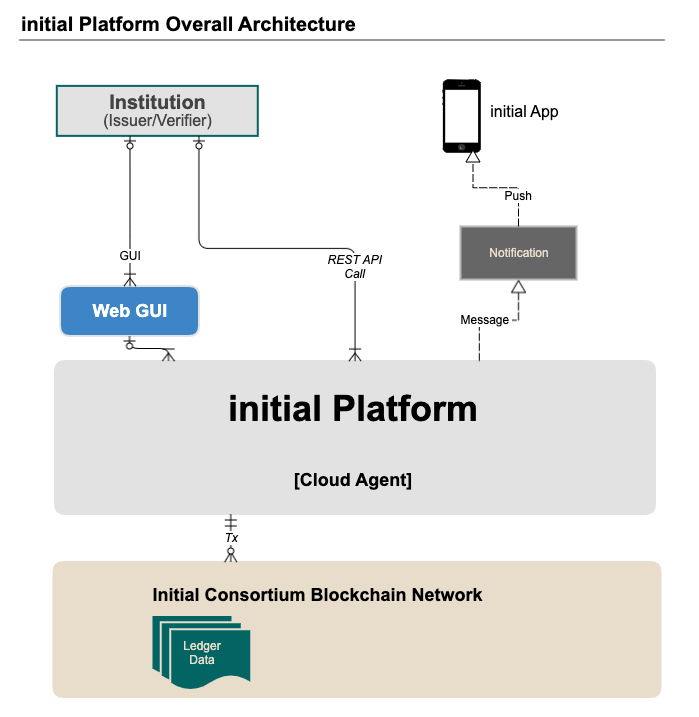
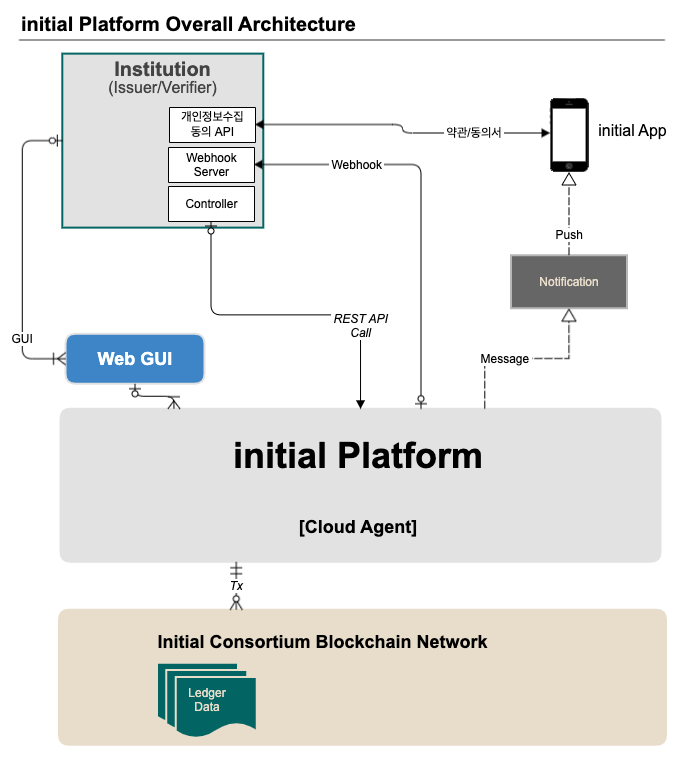
v1.0.7 개인정보 수집 동의 개발 Guide 추가

diff --git a/docs/web_console_guide.md b/docs/web_console_guide.md
@@ -1,0 +1,146 @@
+<p>initial Platform DID Agent API 이용 개발 안내</p>
+
+![platform arch](img/initial_platform_architecture.png)
+
+## 기관 참여자 구현/개발이 필요 항목 
+위 그림에서 기관사용자 영역의 3개 항목에 대해서 구현 필요
+
+1. 참여사 개인정보 수집 및 이용 동의서 조회 API 서버 
+2. DID Agent API 요청 Controller 서버
+3. Event 수신 Webhook 서버
+
+### 1-1. 참여사 개인정보 수집 및 이용 동의서 조회 API 구현 안내 
+- 모바일 initial App에서 참여사에게 본인확인증명을 제출하기 전 개인정보 수집 및 이용 동의를 받기 위해, 참여사로부터 동의서를 조회하는 인터페이스이다. 
+
+##### Request
+```
+POST http://{{참여사서버DOMAIN}}/terms/personconsent   
+```
+
+Parameter name | value | Description | 필수 
+--- | --- | --- | ---
+ - |  |  |
+
+
+##### Response
+Field name | value | Description
+--- | --- | --- 
+result | Object | 
+flag | String | 결과 코드
+message | String | 결과 메시지
+agreement | String | 서비스에 대한 동의 설명
+collectiontype | String | 수집 항목
+usagepurpose | String | 수집 이용 목적
+consentperiod | String | 보유/이용기간 및 파기 
+
+##### Example
+example request
+```
+Header
+Accept:applicastion/json
+METHOD:POST
+URL
+/terms/personconsent
+Body
+```
+example response
+```
+Header 
+'content-type': application/json
+'status':200
+Body 
+{
+  "result": {
+    "flag": "0000",
+    "message": "결과 메시지",
+"agreement": "Initial 서비스(이하 \u201c서비스\u201d라 한다)와 관련하여, 본인은 동의내용을 숙지하였으며, 이에 따라 본인의 개인정보를 (주)XXXX가 수집 및 이용하는 것에 대해 동의합니다.\n\n본 동의는 서비스의 본질적 기능 제공을 위한 개인정보 수집/이용에 대한 동의로서, 동의를 하는 경우에만 서비스 이용이 가능합니다.\n\n법령에 따른 개인정보의 수집/이용, 계약의 이행/편익제공을 위한 개인정보 취급위탁 및 개인정보 취급과 관련된 일반 사항은 서비스의 개인정보 처리방침에 따릅니다.",
+    "collectiontype": "이름,생년월일",
+    "usagepurpose": "서비스 이용에 따른 본인확인",
+    "consentperiod": "1년"
+  }
+}
+```
+
+### 1-2. 참여사 개인정보 수집 및 이용 동의서 동의 수신 API 개발 안내 
+- initial App에서 참여사로 개인정보 수집 및 이용 동의서에 대한 사용자 동의 결과를 전달 하는 인터페이스이다.
+- DID Agent 이용시 encryption 및 전자서명에 대해서 지원하지 않으므로 해당값은 무시하면 된다. 
+
+##### Request
+```
+POST http://{{참여사서버DOMAIN}}/terms/personconsent/decision
+```
+
+##### Body Parameter
+Parameter name | value | Description | 필수 
+--- | --- | --- | ---
+pairwise_did | String | 기관과 연결에 사용한 DID | 사용 안함 
+enc_data | string | 암호화 해서 동의 결과 전송.(intial JAVA SDK를 사용하는 경우 복호화 가능. DID Agent를 사용하면 지원 불가) | 사용 안함  
+non_enc_data | string | 암호화 하지 않고 동의 결과 전송.(DID Agent를 사용하는 경우 사용) | 필수 
+
+##### JSON Data
+Parameter name | value | Description | 필수 
+--- | --- | --- | ---
+agree_yn | String | 동의여부 (Y/N) | 필수
+signature | String | pairwise_did+agree_yn를 서명한 결과를 | 사용 안함
+                           
+
+##### Response
+Field name | value | Description
+--- | --- | --- 
+result | Object | 
+flag | String | 결과 코드
+message | String | 결과 메시지
+
+
+
+##### Example
+example request
+```
+Header
+Accept:applicastion/json
+METHOD:POST
+URL
+/terms/personconsent/decision
+Body
+{
+"pairwise_did": "sdfsdfsdf23232fdsfsf",
+"enc_data": "dsiofj239rt9i9bi929if9si92mvj2oj592nj288e8j38nj82j8j8j4n"
+}
+```
+
+example request
+```
+{
+"agree_yn": "Y",
+"signature":"xcvsdfasdfgawdgasdgasdgsdagasdgasdgdsg"
+}
+```
+
+example response
+```
+Header 
+'content-type': application/json
+'status':200
+Body 
+{
+  "result":{
+    "flag":"0000",
+    "message":"성공"
+  }
+}
+```
+
+### 2. DID Agent Controller 개발 안내 
+- 기관사용자는 DID Agent API를 사용하기 위해 controller 서버를 개발해야 한다.
+- initial Platform의 DID Agent는 Event Driven(이벤트 구동형) 방식이기 때문에 기관 사용자는 Webhook 서버를 개발하고 url 등록해아 한다.
+- 자세한 API 내용은 initial DID Agent API Guide 및 reference code 참조 
+
+  
+### 3. Webhook 서버 개발 안내 
+- initial DID Agent는 event driven 방식으로 REST API 요청에 대한 응답을 Webhook 서버로 전달합니다
+- 처리결과를 받기 위한 기관 사용자의 Webhook URL은 기관정보에 필수 등록해야 합니다. e.g)https://domain.com/webhooks
+- Webhook 서버의 API Key는 보안 강화를 위한 선택 사항입니다. https://domain.com/webhooks#org-api-key 와 같이 입력하시면 header의 x-api-key 항목에 값으로 "org-api-key"를 함께 전송합니다.
+- 기관 사용자는 보안강화를 위한 IP기반 방화벽 설정 하세요 (initial platform의 IP대역 xxx.xxx.xxx.xxx/24는 별도로 안래 예정입니다)
+- Webhook 서버 예제는 아래 reference code (DID 발행/검증 Demo)에서 확인할 수 있습니다. 
+
+

diff --git a/docs/open_api_list.md b/docs/open_api_list.md
@@ -1,9 +1,10 @@
-<p>Initial Platform API Documents</p>
+<p>initial Platform DID Agent API Documents</p>
 
-Cloud Agent의 REST API List<br>
-기관사업자의 Legacy 시스템(ERP, HR시스템 등)과 연동하여 증명서를 손쉽게 발생할 수 있다.
+### DID Agent 안내 
+- 기관사용자는 아래의 DID API를 사용하여 Legacy 시스템(ERP, HR시스템 등)과 연동하여 증명서를 손쉽게 발생할 수 있다.
+- initial Platform의 DID Agent는 Event Driven(이벤트 구동형) 방식이기 때문에 기관 사용자는 Webhook 서버를 준비하고 url 등록해아 한다.
 
-### API 지원 List
+### DID Agent API 지원 List
 
 #### Mandatory(필수) APIs
 
@@ -13,9 +14,7 @@ Cloud Agent의 REST API List<br>
   `POST` | **[/issue-credential/send-offer](#)** | 발행자(issuer)가 사용자(holder)에게 VC 보내기
   `POST` | **[/present-proof/send-request](#)** | 검증자(Verifier)가 사용자(holder)에게 VC 검증 요청하기 
 
-
-
-<br><br>
+<br>
 
 #### Optional Service APIs
 
@@ -24,3 +23,15 @@ Cloud Agent의 REST API List<br>
   `GET` | /connections | 모든 연결(connections) list 출력
   `GET` | /connections/{conn_id} | 특정 connection ID 정보 출력
   `POST` | /connections/{conn_id}/send-message| Send a basic message to a connection (지원예정)
+  
+  <br>
+  
+### Webhook 서버 개발 안내 
+- initial DID Agent는 event driven 방식으로 REST API 요청에 대한 응답을 Webhook 서버로 전달합니다
+- 처리결과를 받기 위한 기관 사용자의 Webhook URL은 기관정보에 필수 등록해야 합니다. e.g)https://domain.com/webhooks
+- Webhook 서버의 API Key는 보안 강화를 위한 선택 사항입니다. https://domain.com/webhooks#org-api-key 와 같이 입력하시면 header의 x-api-key 항목에 값으로 "org-api-key"를 함께 전송합니다.
+- 기관 사용자는 보안강화를 위한 IP기반 방화벽 설정 하세요 (initial platform의 IP대역 xxx.xxx.xxx.xxx/24는 별도로 안래 예정입니다)
+- Webhook 서버 예제는 아래 reference code (DID 발행/검증 Demo)에서 확인할 수 있습니다. 
+
+
+![platform arch](img/initial_platform_architecture.png)

diff --git a/docs/services.md b/docs/services.md
@@ -1,7 +1,7 @@
 <h2>Initial Platform Product and Services</h2>
 
 
-## 1. 기관 사용자를 위한 Initial Web Console
+## 1. Initial Web Console
 Web GUI 기반으로 손쉽게 Agent, Wallet 생성하고, VC(Verifiable Credential)을 발행하거나 검증할 수 있는 기능 및 발행/검증 통계 및 사용자 초대 가능
 
   - 디지털 자격 증명을 사용자에게 직접 발행(Issuing) 가능
@@ -9,24 +9,17 @@ Web GUI 기반으로 손쉽게 Agent, Wallet 생성하고, VC(Verifiable Credent
   - 발행/검증 관련 모든 통계 data 제공
   - 사용자 추가 초대 기능 제
 
-## 2. Initial API Services
-REST API 기반 Wallet 생성 및 VC 발행/검증
+## 2. 기관(Enterprise) 사용자를 위한 initial DID Agent API Services
+REST API 기반 Wallet 생성 및 VC 발행/검증 지원 
   
   - 기존 Legacy Back-end system과 REST APIs를 통한 손쉬운 개발 지원
   - REST APIs와 연결을 위한 SDK Controller SDK 지원
 
 
 ## 3. SDK
-Mobile/Server SDK 제공 
+Mobile/Server SDK 제공 (협의 필요)
 
  - iOS Native SDK
  - Mobile Android Native SDK
  - Java Server SDK
  - Python Server SDK
- 
-## 4. 개인 사용자를 위한 Initial Agency Service
-email 서버와 같이 DID 관련 Message의 Hub 역할을 담당
-
-- 모바일 App(edge agent) 사용자마다 Cloud Agent 기능 제공
-- 24시간 Message 수취 가능한 무중단 서비스 제공
-- 개인키 암호화를 통한 모든 Message의 Privacy 보장 제공 

diff --git a/docs/index.md b/docs/index.md
@@ -1,7 +1,8 @@
+Document version : v1.0.7 (last updated 2021-02-08)
+
 Welcome to Initial Platform Developer Site
 ===============
 
-Document version : v1.0.4 (last updated 2021-02-05)
 
 이곳은 Hyperledger Aries Protocol 기반 Initial Platform 사용자/개발자를 위한 사이트 입니다. 
 새로운 디지털 ID 표준인 DID(Decentralized Identifier)와 VC (Verifiable Credentials)를 기반으로 SSI (Self-Sovereign Identity)를 쉽게 구현할 수 있도록 지원합니다.
@@ -12,11 +13,10 @@ DID를 통해 신분증/자격증명을 효과적으로 전달할 수 있다면 
 ## 1. Index
 
 * `Introduction` - Platform 소개 / Release note 
-* `Agency` - Initial Agency의 기능 및 Protocol 소개.
-* `Web Console` - Web기반 DID 동작을 지원하는 서비스.
+* `Web Console Service` - Web기반 DID Agent를 지원하는 서비스.
+* `initial DID Agent Guide` - initial DID Agent Open API 사용 가이드.
 * `Reference Guide` - DID Demo 동작을 통한 기술 이해.
-* `SDK APIs` - SDK APIs 소개.
-* `기타` - 기타.
+
 
 ![platform arch](img/initial_platform_architecture.png)
 

diff --git a/docs/terms.md b/docs/terms.md
@@ -78,10 +78,10 @@ DID는 보안 강화를 위해 다양한 종류의 Key들을 사용한다
  - 이니셜 eco-system의 서비스를 제공 받는 참여자들을 말함. Holder, Issuer, Verifier등 해당. 여기서 서비스 서비스를 제공하는 Server는 Agency를 말함.
  
 ## 4. Web Console
- - Web GUI 기반 DID 동작을 지원하는 서비스 (업데이트 중)
+ - Web GUI 기반 DID Agent 동작을 지원하는 서비스
 
 ## 5. Cryptography (암호기법)
- - Initial에서 사용하는 암호기 (업데이트 중)
+ - Initial에서 사용하는 암호기술 
 
 ### ○ 영지식증명(ZKP or Zero Knowledger Proof)
   - 내정보를 공개하지 않고, 참/거짓을 판별할 수 있는 기술 

diff --git a/docs/blockchain.md b/docs/blockchain.md
@@ -10,7 +10,7 @@ Initial Network는 Private 형태로 승인된 관계자만 참여/접근 가능
 
 * Hyperledger Fabric 기반 기술을 사용하여 최상의 Enterprise 경험을 제공합니다.
 
-- Hyperledger Fabric(SDK) <https://github.com/hyperledger/fabric>
+- Hyperledger Fabric(open-source) <https://github.com/hyperledger/fabric>
 
 ![platform arch](img/initial_platform_architecture.png)
 
